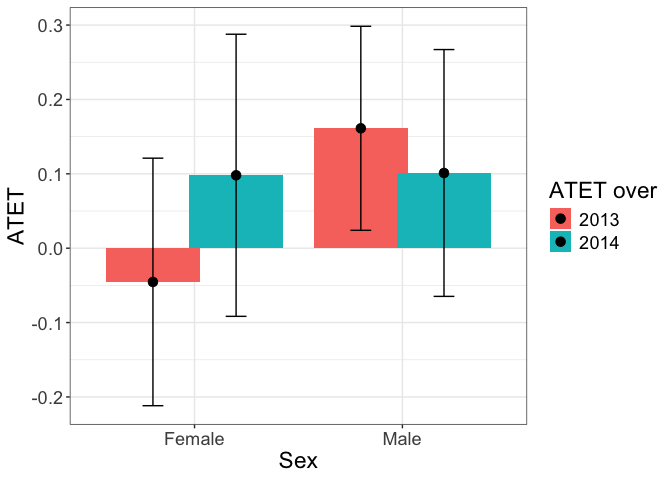
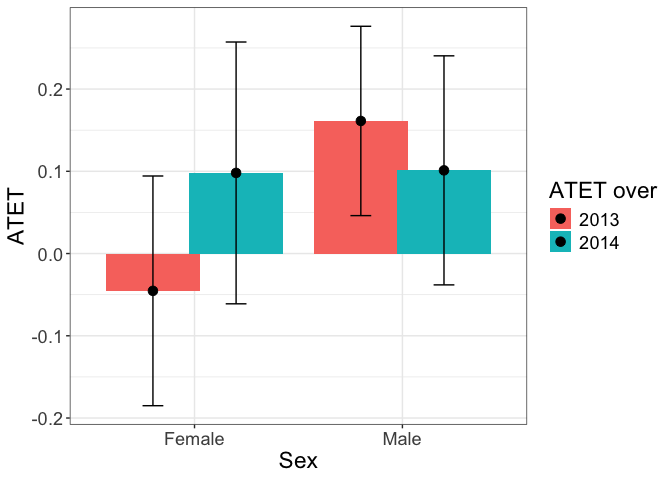
V1.0

diff --git a/illustration.md b/illustration.md
@@ -643,7 +643,7 @@ education, since the `education` is a categorical variable.
 ``` r
 tym1b_gr_educ <- didnpplot(
   obj = tym1b,
-  level = 95,
+  level = 90,
   by = d0$educ[tym1b$esample][tym1b$sample1],
   xlab = "Education",
   ylab = "ATET"
@@ -747,7 +747,7 @@ sex:
 ``` r
 tym1b_gr_sex <- didnpplot(
   obj = tym1b,
-  level = 95,
+  level = 90,
   by = d0$sex[tym1b$esample][tym1b$sample1],
   xlab = "Sex",
   ylab = "ATET",
@@ -796,7 +796,7 @@ pretty rugged.
 ``` r
 tym1b_gr_unemp_each_value <- didnpplot(
   obj = tym1b,
-  level = 95,
+  level = 90,
   by = d0$unemp[tym1b$esample][tym1b$sample1],
   xlab = "Unemployment",
   ylab = "ATET",
@@ -871,7 +871,7 @@ intervals specified by `by.continuous.scale` and plot ATET by intervals.
 ``` r
 tym1b_gr_unemp_n_intervals <- didnpplot(
   obj = tym1b,
-  level = 95,
+  level = 90,
   by = d0$unemp[tym1b$esample][tym1b$sample1],
   by.continuous.scale = 10,
   xaxis.label.angle = 90,
@@ -935,7 +935,7 @@ defined by the specified vector and plot ATET by intervals.
 ``` r
 tym1b_gr_unemp_vector_breaks <- didnpplot(
   obj = tym1b,
-  level = 95,
+  level = 90,
   by = d0$unemp[tym1b$esample][tym1b$sample1],
   by.continuous.scale = c(2, 3, 4, 5, 7, 9, 12),
   xlab = "Unemployment",
@@ -992,7 +992,7 @@ This is an example with treatment effects by sex over time.
 ``` r
 tym1b_gr_sex_time <- didnpplot(
   obj = tym1b,
-  level = 95,
+  level = 90,
   by = d0$sex[tym1b$esample][tym1b$sample1],
   over = as.factor( d0$t[tym1b$esample][tym1b$sample1]),
   # over = d0$educ[tym1b$esample][tym1b$sample1],
@@ -1045,7 +1045,7 @@ the order of the previous graph.
 ``` r
 tym1b_gr_time_sex <- didnpplot(
   obj = tym1b,
-  level = 95,
+  level = 90,
   over = d0$sex[tym1b$esample][tym1b$sample1],
   by = as.factor( d0$t[tym1b$esample][tym1b$sample1]),
   xlab = "Year",
@@ -1122,7 +1122,7 @@ heterogeneous treatment effects over sex.
 ``` r
 tym1b_gr_unemp_each_value_sex <- didnpplot(
   obj = tym1b,
-  level = 95,
+  level = 90,
   by = d0$unemp[tym1b$esample][tym1b$sample1],
   over = d0$sex[tym1b$esample][tym1b$sample1],
   xlab = "Unemployment",
@@ -1175,7 +1175,7 @@ tym1b_gr_unemp_each_value_sex$plot.b
 ``` r
 tym1b_gr_unemp_intervals_sex <- didnpplot(
   obj = tym1b,
-  level = 95,
+  level = 90,
   by = d0$unemp[tym1b$esample][tym1b$sample1],
   by.continuous.scale = 15,
   xaxis.label.angle = 90,
@@ -1278,7 +1278,7 @@ working of the `didnpplot` command.
 ``` r
 tym1b_gr_unemp_breaks_sex <- didnpplot(
   obj = tym1b,
-  level = 95,
+  level = 90,
   by = d0$unemp[tym1b$esample][tym1b$sample1],
   by.continuous.scale = seq(0, 15, 1), #c(2, 5, 7, 9, 12),
   over = d0$sex[tym1b$esample][tym1b$sample1],
